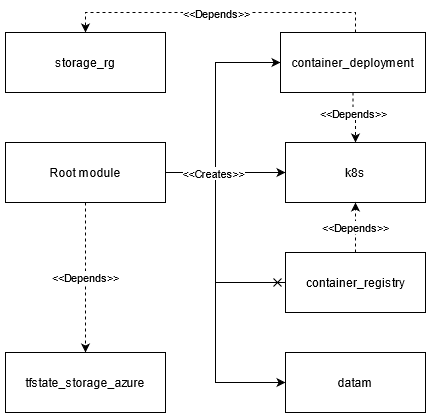
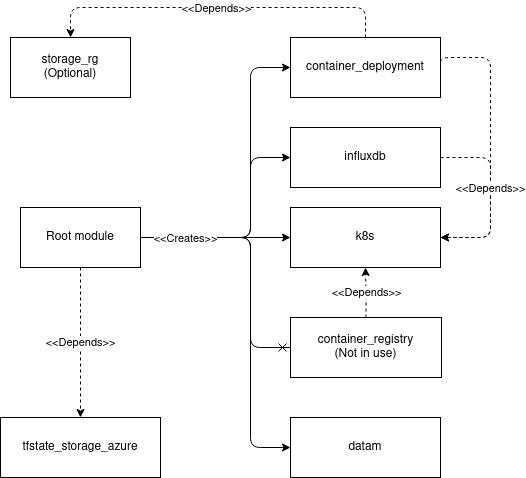
Add influx documentation

diff --git a/docs/ARCHITECTURE.md b/docs/ARCHITECTURE.md
@@ -8,6 +8,7 @@ This is a architectural description of the smad-deploy-azure
 |./modules|Modules used by the script. |
 |[../k8s](#Kubernetes-deployment-module)|Module for  creating kubernetes cluster to Azure (AKS)
 |[../container_deployment](#Container-deployment-module)|Handles deployment of the stack via Helm to k8s cluster. Holds all the information regarding setting up the cloud environment| k8s
+|[../influxdb](#Influx-deployment-module)|Module that handles deployment of Influxdb to k8s cluster. Holds all the information to set up database for prometheus metrics | k8s
 |[../container_registry](#Contrainer-registry-module)| Creates ACR for k8s cluster. **Currently not used**| k8s
 |[../datam](#Datamanager-module)|Gets value from remote state file located in Azure subscription.
 |[../tfstate_storage_azure](#Terraform-state-module)|Creates resource group for terraform state file|
@@ -44,6 +45,10 @@ Role assingment for separate resource group. Gets scope value from datamodule. C
 Uses module specified in `./modules/container_deployment/`  folder for deploying services on previously created Kubernetes cluster. Custom MongoDB username and password could be supplied to services, otherwise default is used.
 
 Kubernetes and Helm providers are configured with outputs acquired from created k8s cluster module.
+
+#### `module "influxdb"`
+
+Adds bitnami helm charts that bootstrap a Influxdb deployment on the k8s cluster using the Helm package manager.
 
 ### `variables.tf`
 
@@ -96,6 +101,10 @@ Creates storage class with reclaim policy of retain. Resource group is defined w
 #### ``resource "kubernetes_persistent_volume_claim" "example"``
 
 Creates persistent volume claim for MongoDB.
+
+#### ``resource "kubernetes_persistent_volume_claim" "influxdb"``
+
+Creates persistent volume claim for InfluxDB.
 
 ### `variables.tf` 
 
@@ -216,6 +225,25 @@ Variables for naming resources.
 ### `outputs.tf`
 
 Output values for ACR. Containing id, login url, username and password.
+
+
+## Influxdb module
+
+**Depends on k8s module**
+
+This module deploys influxdb as a long term storage for prometheus monitoring data.
+
+### `main.tf`
+
+Adds bitnami helm charts that bootstraps a Influxdb deployment on a Kubernetes cluster using the Helm package manager and creates a database monitoring_data for monitoring data.
+
+### `values.yaml`
+
+Values used for deploying Influx.
+
+### `influx-secrets.yaml`
+
+Stores admin, user, writeUser and readUser passwords for authentication.
 
 ## Datamanager module
 
